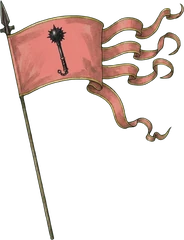
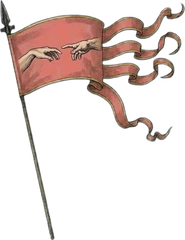
v0.98.10 : drapeau « Masse d'armes » remplacé par « La Création »
Claude-Session: https://claude.ai/code/session_01ThAJAhzQCU9J3QinbMEDkL

Changed region(s): [[0.0, 0.0, 1.0, 1.0]]

diff --git a/js/config.js b/js/config.js
@@ -698,7 +698,7 @@ const BANNER_SCALE = 1.8;
 const BANNERS = [
   { id: "Épées croisées", name: tr("Épées croisées", "Crossed swords"), img: 'img/bannieres/b01.webp', icon: 'img/bannieres/b01s.webp', logo: 'img/bannieres/b01m.webp', color: [180, 20, 20] },
   { id: "Le Péteur", name: tr("Le Péteur", "The Farter"), img: 'img/bannieres/b21.webp', icon: 'img/bannieres/b21s.webp', logo: 'img/bannieres/b21m.webp', color: [222, 78, 44] },
-  { id: "Masse d'armes", name: tr("Masse d'armes", "Mace"), img: 'img/bannieres/b02.webp', icon: 'img/bannieres/b02s.webp', logo: 'img/bannieres/b02m.webp', color: [240, 128, 130] },
+  { id: "Masse d'armes", name: tr("La Création", "The Creation"), img: 'img/bannieres/b02.webp', icon: 'img/bannieres/b02s.webp', logo: 'img/bannieres/b02m.webp', color: [240, 128, 130] },
   { id: "Soleil", name: tr("Soleil", "Sun"), img: 'img/bannieres/b03.webp', icon: 'img/bannieres/b03s.webp', logo: 'img/bannieres/b03m.webp', color: [138, 24, 72] },
   { id: "Marteau", name: tr("Marteaux croisés", "Crossed hammers"), img: 'img/bannieres/b04.webp', icon: 'img/bannieres/b04s.webp', logo: 'img/bannieres/b04m.webp', color: [245, 132, 10] },
   { id: "Canards", name: tr("Canards", "Ducks"), img: 'img/bannieres/b05.webp', icon: 'img/bannieres/b05s.webp', logo: 'img/bannieres/b05m.webp', color: [200, 160, 50] },

diff --git a/README.md b/README.md
@@ -1247,6 +1247,7 @@ ce sont de grandes taches (environ 15 % des plaines et forêts) ; sur la carte *
 
 ## 🆕 Nouveautés
 
+- **v0.98.10** : 🤝 le drapeau « Masse d'armes » est remplacé par **La Création** : deux mains qui se tendent l'une vers l'autre, sur fond rose
 - **v0.98.9** : 🔨 le drapeau « Marteau » est redessiné : deux **marteaux croisés** sur un bouclier, sur fond orange (il s'appelle maintenant « Marteaux croisés »)
 - **v0.98.8** : 🧱 la **mine fortifiée** a son propre dessin : le site minier dans sa palissade de pieux, avec sa tour de guet (visible en zoomant)
 - **v0.98.7** : 🌐 en ligne, pendant le choix des places (libre ou places prévues), on peut **changer d'avis** jusqu'à la fin des 15 s : un nouveau clic déplace sa capitale, et les autres le voient en direct ; la partie attend toujours la fin du compte à rebours
